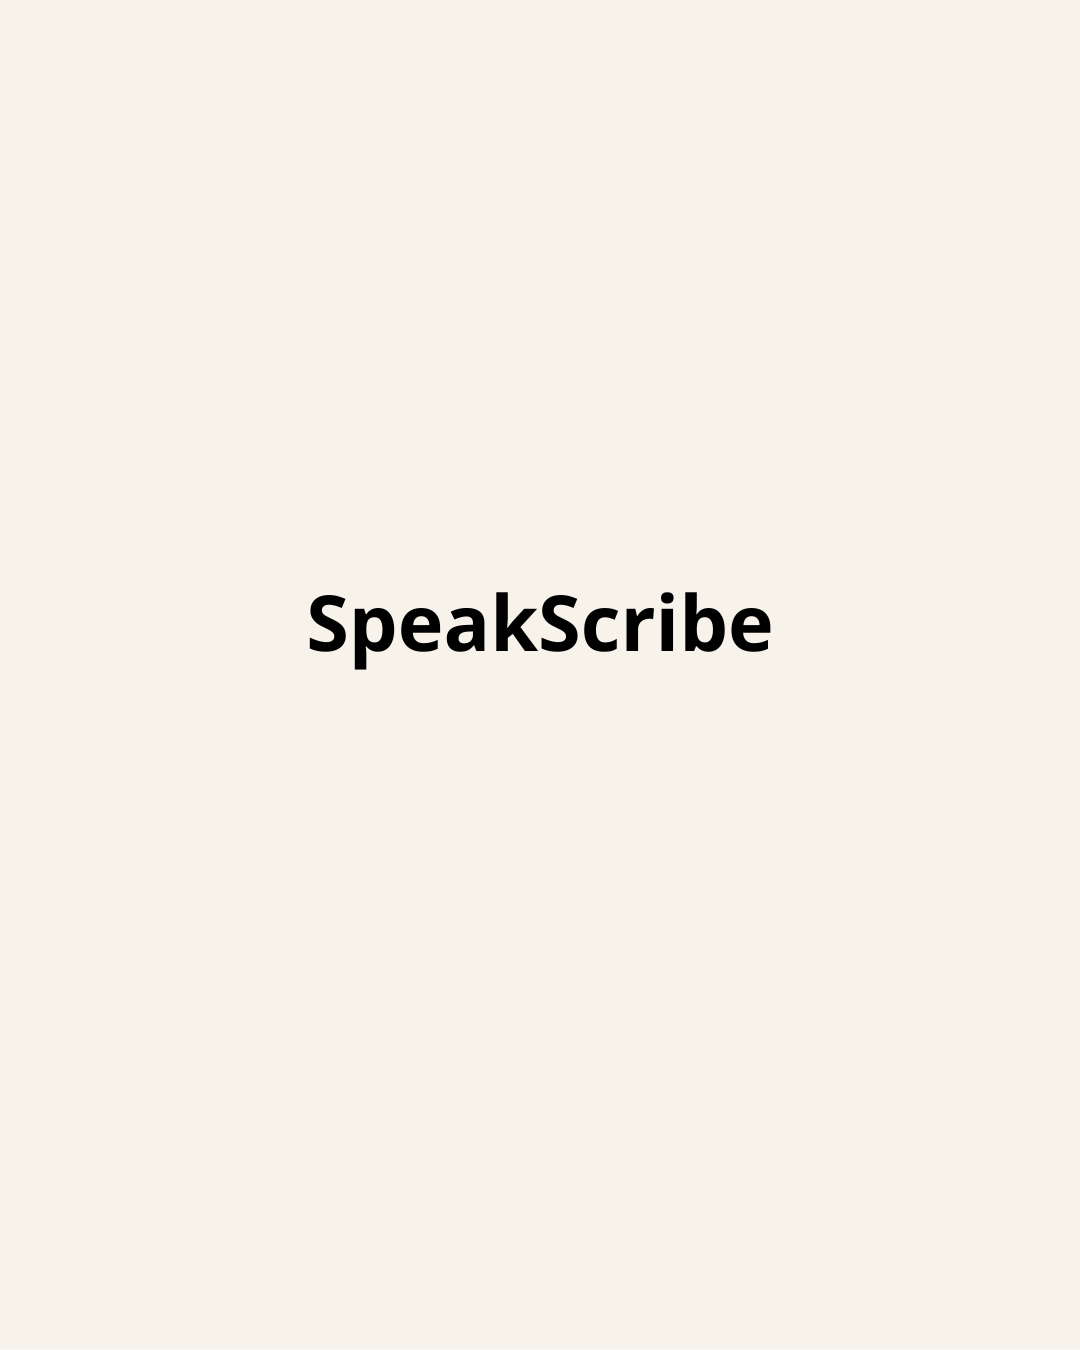
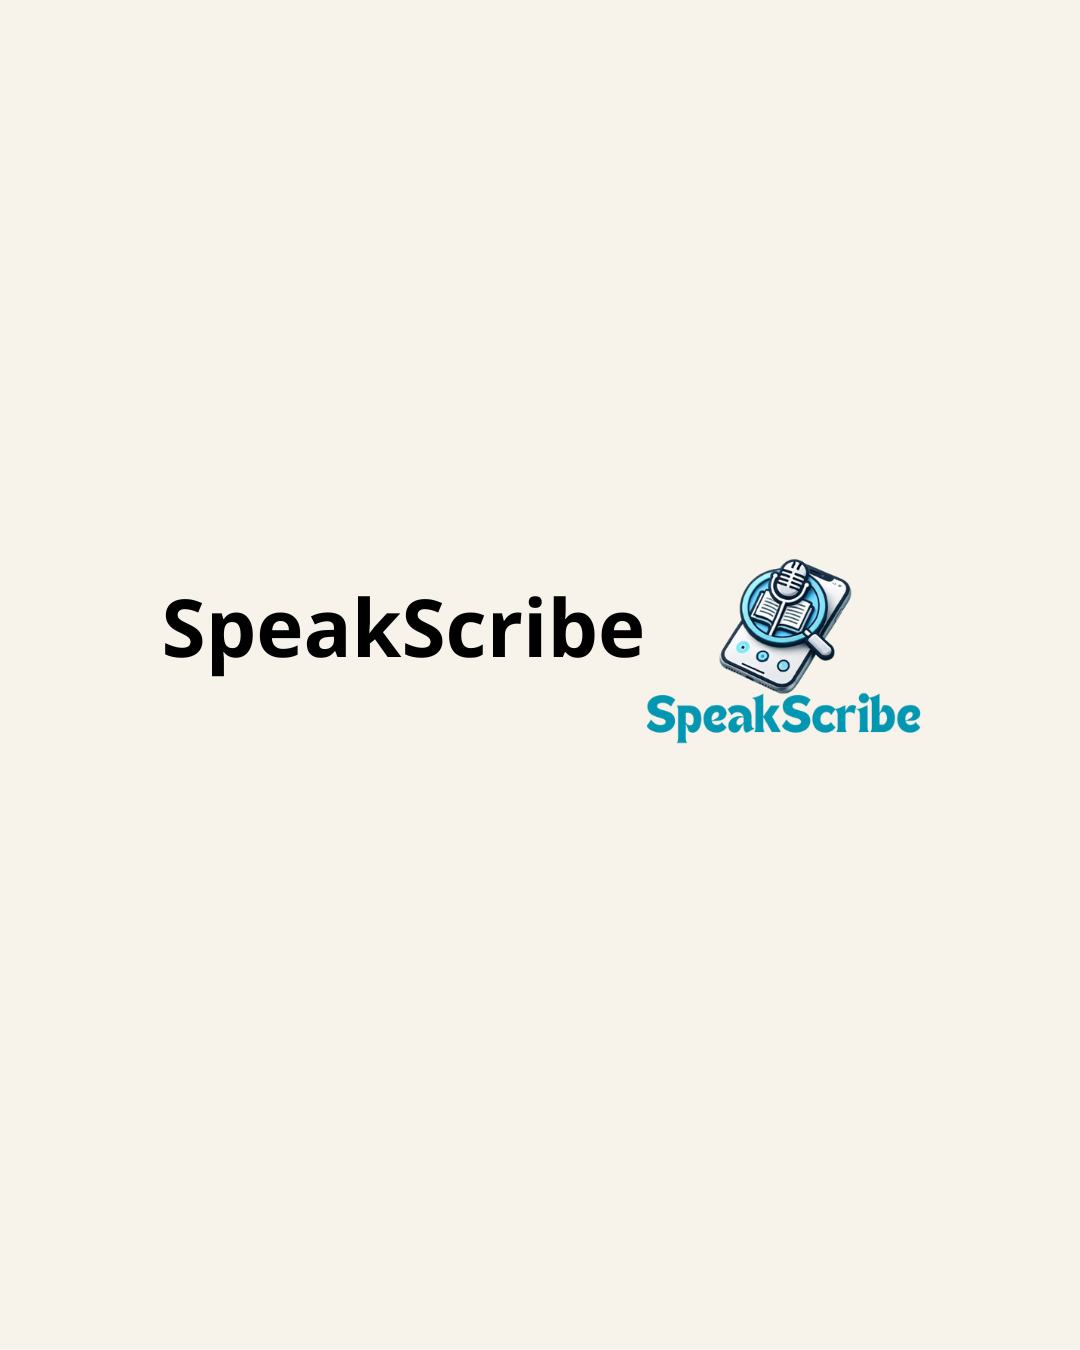
GirlTalkAI add + SpeakScribe image

Changed region(s): [[0.1528, 0.4044, 0.8556, 0.56]]

diff --git a/src/components/Projects.jsx b/src/components/Projects.jsx
@@ -1,4 +1,3 @@
-// filepath: /Users/luisabrantes/Documents/luis.hsa/src/components/Projects.jsx
 import { useState } from 'react';
 import { motion } from 'framer-motion';
 import {
@@ -18,38 +17,77 @@ import {
     Braces,
     SquareCode,
     Brain,
-    Terminal
+    Terminal,
+    Mic // New icon for podcasting
 } from 'lucide-react';
 import agrolearn from '../assets/projects/agrolearn.png';
 import quickreadme from '../assets/projects/quickreadme.png';
 import elementaryschoolwebsite from '../assets/projects/elementaryschoolwebsite.png';
 import tutortime from '../assets/projects/tutortime.png';
-import webdevclasses from '../assets/projects/webDevClasses.png'; // Atualizado para imagem real
-import historytestsite from '../assets/projects/historyTestStudyPortal.png'; // Atualizado para imagem real
-import speakScribeImage from '../assets/projects/speakScribe.png'; // Atualizado para imagem real
+import webdevclasses from '../assets/projects/webDevClasses.png';
+import historytestsite from '../assets/projects/historyTestStudyPortal.png';
+import speakScribeImage from '../assets/projects/speakScribe.png';
+import girlTalkAiImage from '../assets/projects/girlTalkAI.png';
 
 const techIcons = {
-    React: <Code2 size={14} className="inline-block" />,
-    Vite: <Zap size={14} className="inline-block" />,
-    'Tailwind CSS': <Palette size={14} className="inline-block" />,
-    Vercel: <Triangle size={14} className="inline-block" />,
-    Python: <Terminal size={14} className="inline-block" />,
-    HandleBars: <Brackets size={14} className="inline-block" />,
-    'Node.js': <FileJson size={14} className="inline-block" />,
-    'Express.js': <SquareCode size={14} className="inline-block" />,
-    MySQL: <Database size={14} className="inline-block" />,
-    Sequelize: <Database size={14} className="inline-block" />,
-    HTML: <Code2 size={14} className="inline-block" />,
-    CSS: <Palette size={14} className="inline-block" />,
-    JavaScript: <Braces size={14} className="inline-block" />,
-    TypeScript: <FileType size={14} className="inline-block" />,
-    Bootstrap: <Palette size={14} className="inline-block" />,
-    'Community Service': <Hexagon size={14} className="inline-block" />,
-    Supabase: <Database size={14} className="inline-block" />,
-    'GPT-3.5 Turbo': <Brain size={14} className="inline-block" />
+    React: <Code2 size={14} className="inline-block text-current" />,
+    Vite: <Zap size={14} className="inline-block text-current" />,
+    'Tailwind CSS': <Palette size={14} className="inline-block text-current" />,
+    Vercel: <Triangle size={14} className="inline-block text-current" />,
+    Python: <Terminal size={14} className="inline-block text-current" />,
+    HandleBars: <Brackets size={14} className="inline-block text-current" />,
+    'Node.js': <FileJson size={14} className="inline-block text-current" />,
+    'Express.js': (
+        <SquareCode size={14} className="inline-block text-current" />
+    ),
+    MySQL: <Database size={14} className="inline-block text-current" />,
+    Sequelize: <Database size={14} className="inline-block text-current" />,
+    HTML: <Code2 size={14} className="inline-block text-current" />,
+    CSS: <Palette size={14} className="inline-block text-current" />,
+    JavaScript: <Braces size={14} className="inline-block text-current" />,
+    TypeScript: <FileType size={14} className="inline-block text-current" />,
+    Bootstrap: <Palette size={14} className="inline-block text-current" />,
+    'Community Service': (
+        <Hexagon size={14} className="inline-block text-current" />
+    ),
+    Supabase: <Database size={14} className="inline-block text-current" />,
+    'GPT-3.5 Turbo': <Brain size={14} className="inline-block text-current" />,
+    Firestore: <Database size={14} className="inline-block text-current" />,
+    'Murf.ai': <Mic size={14} className="inline-block text-current" />,
+    Llama: <Brain size={14} className="inline-block text-current" />
 };
 
 const projectsData = [
+    {
+        id: 8,
+        title: 'GirlTalk AI',
+        shortDescription:
+            'AI-powered platform that generates personalized podcast clips to provide advice and support.',
+        fullDescription: `Inspired by the need for a relatable female role model, GirlTalk AI was developed for the UC Berkeley AI Hackathon. It allows users to write their concerns into a chatbox and receive a personalized podcast clip from our AI host, Aisha. The platform leverages Llama API to generate personalized, empathetic text responses tailored to each user's specific situation, while Murf.ai API transforms these responses into humanized voice clips that make girls feel welcomed and supported. This creates a safe, supportive space for users to get advice tailored to their specific situations, moving beyond generalized online content. The platform also provides curated mental health resources and allows users to browse previously generated clips.`,
+        image: girlTalkAiImage,
+        thumbnail: girlTalkAiImage,
+        technologies: [
+            'React',
+            'TypeScript',
+            'Vite',
+            'Tailwind CSS',
+            'Firestore',
+            'Express.js',
+            'Murf.ai',
+            'Llama'
+        ],
+        category: 'Hackathon Project',
+        github: 'https://github.com/cicadaenjoyer/Girl-Talk-AI', // TODO: Add correct GitHub link
+        devpost: 'https://devpost.com/software/girltalk-ai', // TODO: Add correct Devpost link
+        highlights: [
+            "Developed at the world's largest AI hackathon, hosted by UC Berkeley.",
+            'Created a safe space for women to receive personalized, empathetic AI-generated advice.',
+            "Integrated Llama API for generating personalized text responses tailored to each user's specific concerns.",
+            'Utilized Murf.ai API to create humanized voice clips that make girls feel welcomed and supported.',
+            'Engineered thoughtful and age-appropriate AI responses for sensitive topics.',
+            'Utilized Firestore for data storage and built a modern frontend with React and TypeScript.'
+        ]
+    },
     {
         id: 1,
         title: 'SpeakScribe',
